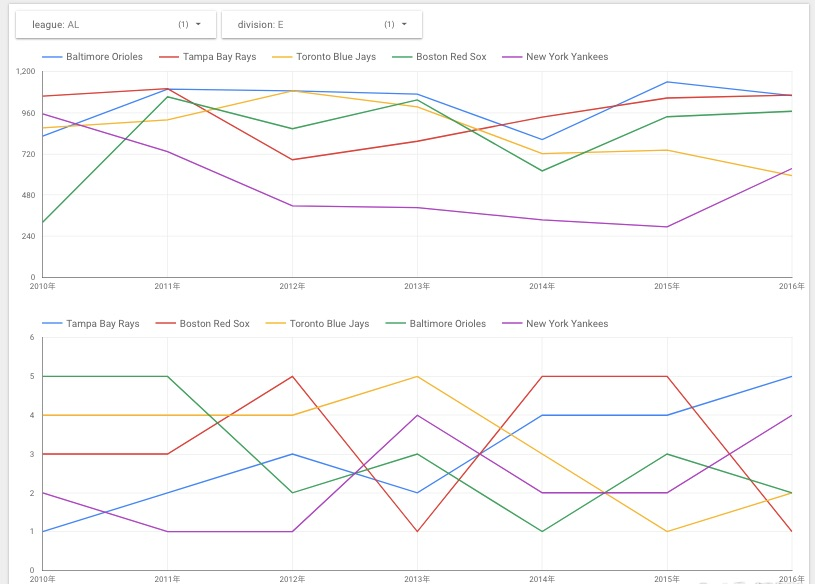
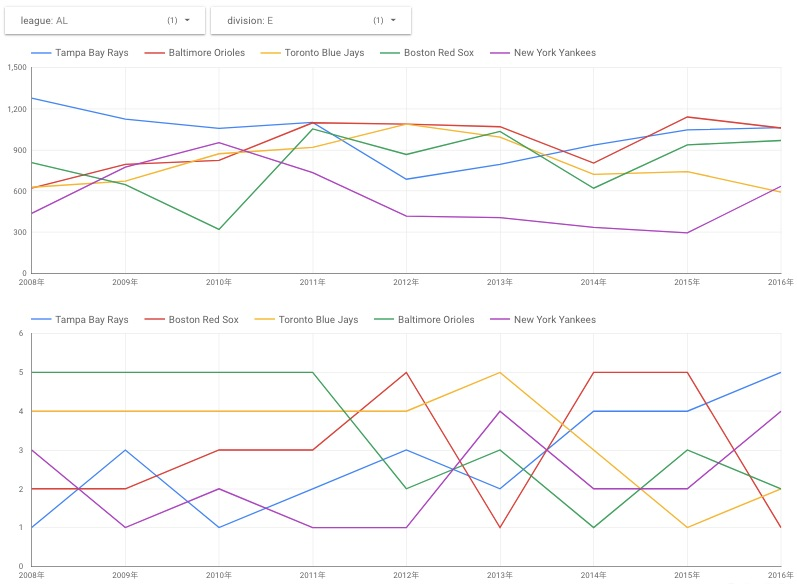
集計データを2008年からに修正

diff --git a/md/handson.md b/md/handson.md
@@ -120,11 +120,13 @@ Masterテーブルを確認してみよう
 
 ## SQLについて
 - Legacy SQL
+  - 従来からあるSQL構文
 - Standard SQL
+  - [Standard SQLの利点](https://cloud.google.com/bigquery/docs/reference/standard-sql/migrating-from-legacy-sql?hl=ja#advantages_of_standard_sql)
 
 Note:
-TODO 
-https://www.slideshare.net/kumanoryo/sqlbigquerystandard-sql
+WITH句でViewで作れたりユーザー定義関数が使えるようになった、一般的なSQL構文で実行できるようになった、DML文が使える。
+今から使うならStandardSQLの方が絶対良い。
 
 ---
 
@@ -224,7 +226,7 @@ ORDER BY yearID, kbb DESC
 
 ---
 
-### 2010-2016年の「チーム毎の30歳以下の選手のヒット合計数」と「チーム順位」を出してみよう
+### 2008-2016年の「チーム毎の30歳以下の選手のヒット合計数」と「チーム順位」を出してみよう
 * 難易度 ★★★
 * 参照するテーブル：Batting, Master, Team
   * 選手の生年月日はMasterテーブル
@@ -252,7 +254,7 @@ FROM(
     WHERE
       birthYear >= yearID - 30
     AND
-      yearID BETWEEN 2010 AND 2016
+      yearID BETWEEN 2008 AND 2016
     GROUP BY yearID, teamID
   ) AS bm
   LEFT OUTER JOIN(
@@ -392,10 +394,10 @@ https://datastudio.google.com/
 #### フィルタで絞り込んで AL × 東地区のデータを見てみよう
 * ヤンキース
   * 2009〜2012年まで 1位, 2位, 1位, 1位 と好調
-  * しかし若手のヒット数は2015年まで減少傾向
-* レッドソックス
-  * 順位の浮き沈みが激し目
-  * 最下位だった翌年は若手のヒット数が増える傾向
+  * しかし若手ヒット数は2015年まで減少傾向になった
+* オリオールズ
+  * 2011年まで最下位が続いていたが2014年には優勝
+  * 2011年から若手ヒット数が好調
 
 --
 
